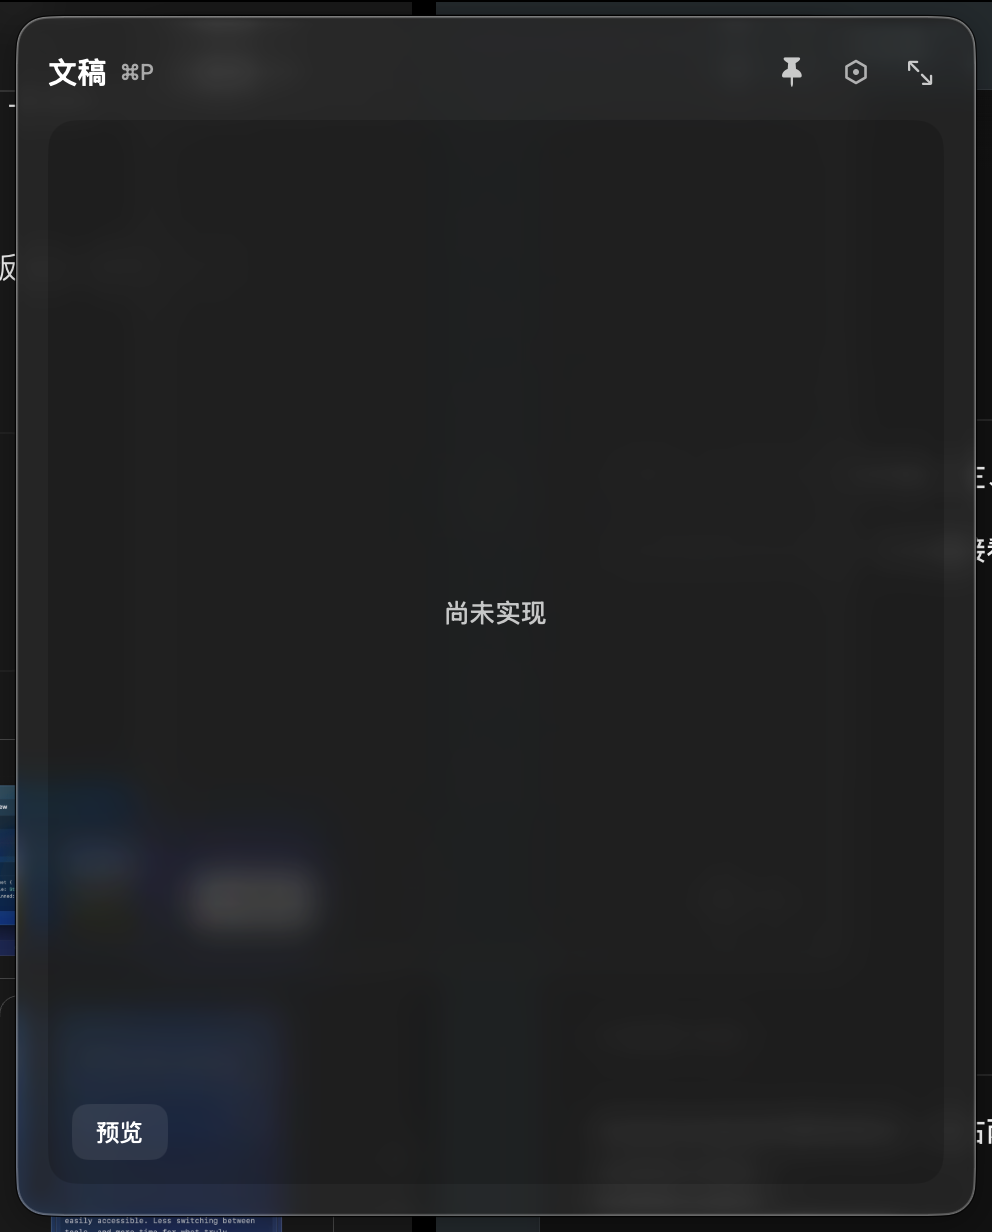
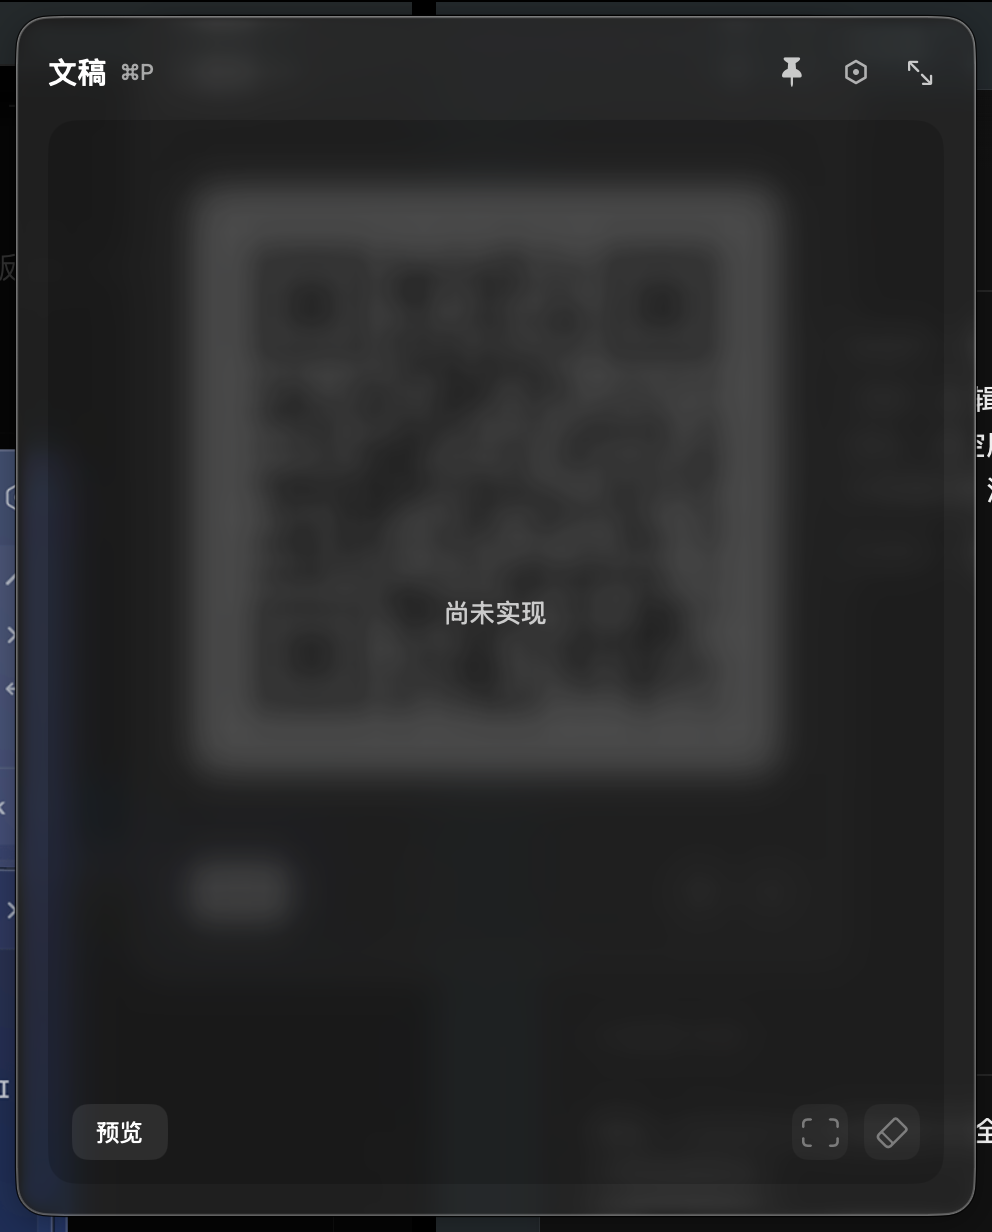
T3.1 补充：文稿使用截全图取景框按钮而非复制

diff --git a/Sources/DevBar/App/PlaceholderPage.swift b/Sources/DevBar/App/PlaceholderPage.swift
@@ -16,6 +16,8 @@ struct PlaceholderPage: View {
           .buttonStyle(DevBarCapsuleStyle(scheme: scheme))
           .disabled(true)
         Spacer()
+        placeholderAction("viewfinder.rectangular", label: Strings.documentCapture)
+        placeholderAction("eraser", label: Strings.clearContent)
       }.frame(height: 28)
         .padding(.horizontal, 12)
         .padding(.bottom, 12)
@@ -24,6 +26,18 @@ struct PlaceholderPage: View {
       DesignTokens.panelInset(scheme),
       in: RoundedRectangle(cornerRadius: DesignTokens.radiusMedium, style: .continuous))
   }
+
+  private func placeholderAction(_ symbol: String, label: String) -> some View {
+    Button {
+    } label: {
+      Image(systemName: symbol)
+        .font(.system(size: 16))
+        .frame(width: 28, height: 28)
+        .foregroundStyle(DesignTokens.textSecondary(scheme))
+        .background(DesignTokens.panelControl(scheme), in: RoundedRectangle(cornerRadius: 8))
+    }.buttonStyle(.plain).disabled(true).accessibilityLabel(label).help(label)
+  }
+
 }
 
 struct DevBarCapsuleStyle: ButtonStyle {

diff --git a/Web/src/editor/page-shell.ts b/Web/src/editor/page-shell.ts
@@ -1,3 +1,4 @@
+import captureSymbol from "../assets/icons/capture.png";
 import copySymbol from "../assets/icons/copy.png";
 import clearSymbol from "../assets/icons/clear.png";
 import { EditorView } from "@codemirror/view";
@@ -39,10 +40,15 @@ const icons: Record<string, string> = {
 };
 export function setIcon(button: HTMLButtonElement, name: string): void {
   button.innerHTML = `<svg viewBox="0 0 24 24" fill="none" stroke="currentColor" stroke-width="1.5" stroke-linecap="round" stroke-linejoin="round" aria-hidden="true">${icons[name] ?? ""}</svg>`;
-  if (name === "copy" || name === "clear") {
+  const symbols: Record<string, string> = {
+    copy: copySymbol,
+    clear: clearSymbol,
+    exportImage: captureSymbol,
+  };
+  if (symbols[name]) {
     const icon = element("span", "system-icon");
     icon.setAttribute("aria-hidden", "true");
-    icon.style.maskImage = `url("${name === "copy" ? copySymbol : clearSymbol}")`;
+    icon.style.maskImage = `url("${symbols[name]}")`;
     button.replaceChildren(icon);
   }
   button.setAttribute(

diff --git a/Sources/DevBar/Strings.swift b/Sources/DevBar/Strings.swift
@@ -3,6 +3,8 @@ import DevBarCore
 enum Strings {
   static let appName = "DevBar"
   static let documentPreview = "预览"
+  static let documentCapture = "截全图"
+  static let clearContent = "清空"
   static let fileDropJSON = "{ } JSON\n在工具中打开"
   static let fileDropDoc = "# Markdown / Mermaid\n在文稿中打开"
   static let fileDropFirst = "已打开第一个文件"

diff --git a/Web/src/strings.ts b/Web/src/strings.ts
@@ -7,7 +7,7 @@ export const strings = {
   copy: "复制",
   copied: "已复制",
   clear: "清空",
-  exportImage: "长图",
+  exportImage: "截全图",
   escape: "转义",
   unescape: "反转义",
   encode: "编码",

diff --git a/Web/src/assets/icons/README.md b/Web/src/assets/icons/README.md
@@ -3,3 +3,5 @@
 copy.png：macOS SF Symbol `doc.on.doc`。clear.png：macOS SF Symbol `eraser`。
 
 由 AppKit 的 NSImage(systemSymbolName:accessibilityDescription:)、18pt regular 配置渲染，24pt 画布、2× PNG。Web 只使用 alpha 蒙版，以 currentColor 跟随主题；图标不含业务颜色。复制成功仍暂时显示对勾。仅作为 macOS 应用内操作图标使用。
+
+capture.png：macOS SF Symbol `viewfinder.rectangular`，仅用于文稿截全图，不作为复制操作。
